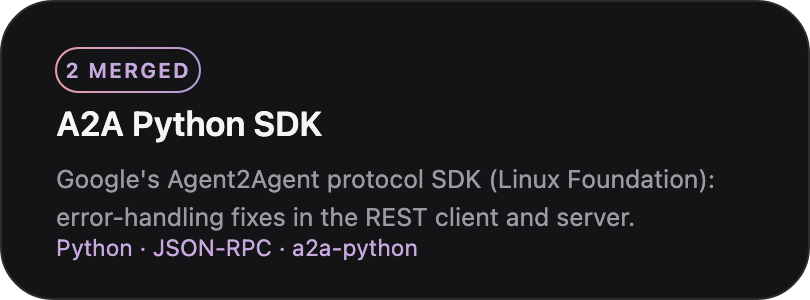
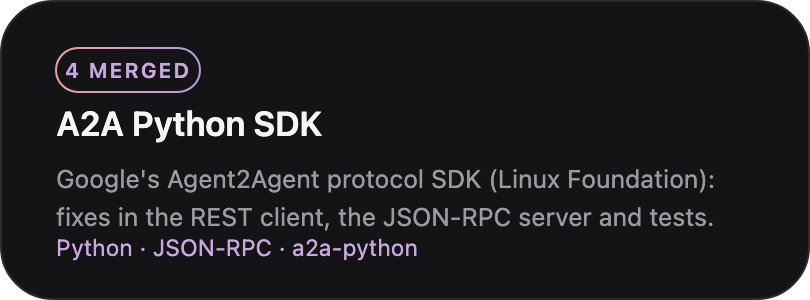
Projects: add The Felt Five; open source card: A2A Python SDK, 4 merged fixes

Changed region(s): [[0.0617, 0.69, 0.8951, 0.78], [0.0617, 0.21, 0.2469, 0.27]]

diff --git a/build_cards.py b/build_cards.py
@@ -117,6 +117,11 @@ HIGHLIGHTS = [
 ]
 
 PROJECTS = [
+    ("card-feltfive.svg", "The Felt Five",
+     ["Six AI agents, five Claude and one Codex, build an app",
+      "with no human help and measure their own tests."],
+     "BAND · Claude Code · Codex", None),
+
     ("card-gloveson.svg", "GlovesOn",
      ["Voice agent that posts goods receipts into SAP —",
       "read back, confirmed by a spoken yes, never deleted."],
@@ -171,8 +176,8 @@ OPEN_SOURCE = [
 
     ("card-oss-a2a.svg", "A2A Python SDK",
      ["Google's Agent2Agent protocol SDK (Linux Foundation):",
-      "error-handling fixes in the REST client and server."],
-     "Python · JSON-RPC · a2a-python", "2 MERGED"),
+      "fixes in the REST client, the JSON-RPC server and tests."],
+     "Python · JSON-RPC · a2a-python", "4 MERGED"),
 ]
 
 CHROME = "/Applications/Google Chrome.app/Contents/MacOS/Google Chrome"

diff --git a/README.md b/README.md
@@ -29,7 +29,7 @@
 <br/>
 
 <a href="https://github.com/a2aproject/a2a-python/commits?author=kosesena">
-  <img width="405" src="./card-oss-a2a.png" alt="A2A Python SDK — 2 merged error-handling fixes in Google's Agent2Agent protocol SDK (Linux Foundation), in the REST client and the JSON-RPC server" />
+  <img width="405" src="./card-oss-a2a.png" alt="A2A Python SDK — 4 merged fixes in Google's Agent2Agent protocol SDK (Linux Foundation), in the REST client, the JSON-RPC server and tests" />
 </a>
 
 <br/><br/><br/>
@@ -38,40 +38,46 @@
 
 <br/>
 
+<a href="https://github.com/kosesena/dark-factory-pocketful">
+  <img width="405" src="./card-feltfive.png" alt="The Felt Five — six AI agents, five Claude and one Codex, build an app with no human help and measure their own tests, built for the WeAreDevelopers x BAND Dark Factory hackathon" />
+</a>
+&nbsp;
 <a href="https://github.com/kosesena/GlovesOn">
   <img width="405" src="./card-gloveson.png" alt="GlovesOn — voice agent that posts goods receipts into SAP, built for the AssemblyAI Voice Agent Hackathon" />
 </a>
-&nbsp;
+
+<br/>
+
 <a href="https://github.com/kosesena/clean-core-copilot">
   <img width="405" src="./card-cleancore.png" alt="Clean Core Copilot — IBM Bob mode that reviews legacy SAP ABAP for the cloud, built for the IBM Bob 2.0 Hackathon" />
 </a>
-
-<br/>
-
+&nbsp;
 <a href="https://github.com/kosesena/echoward-ai-agent">
   <img width="405" src="./card-echoward.png" alt="EchoWard — voice-first AI agent against shopping scams" />
 </a>
-&nbsp;
+
+<br/>
+
 <a href="https://github.com/kosesena/omr-scanner">
   <img width="405" src="./card-omr.png" alt="OMR Scanner — exam sheet reader with React, FastAPI and OpenCV" />
 </a>
-
-<br/>
-
+&nbsp;
 <a href="https://github.com/kosesena/software-architecture-project">
   <img width="405" src="./card-playlist.png" alt="Playlist Platform — microservices with Node.js, Docker and AWS" />
 </a>
-&nbsp;
+
+<br/>
+
 <a href="https://github.com/kosesena/infix-postfix-visualizer">
   <img width="405" src="./card-notation.png" alt="Notation Visualizer — stack animation for infix, postfix and prefix" />
+</a>
+&nbsp;
+<a href="https://github.com/kosesena/collatz-cipher">
+  <img width="405" src="./card-collatz.png" alt="Collatz Cipher — stream cipher built on the Collatz conjecture" />
 </a>
 
 <br/>
 
-<a href="https://github.com/kosesena/collatz-cipher">
-  <img width="405" src="./card-collatz.png" alt="Collatz Cipher — stream cipher built on the Collatz conjecture" />
-</a>
-&nbsp;
 <a href="https://github.com/kosesena?tab=repositories&q=&type=source&language=jupyter+notebook">
   <img width="405" src="./card-datamining.png" alt="Data Mining — CART, KNN and classification studies in Python" />
 </a>
